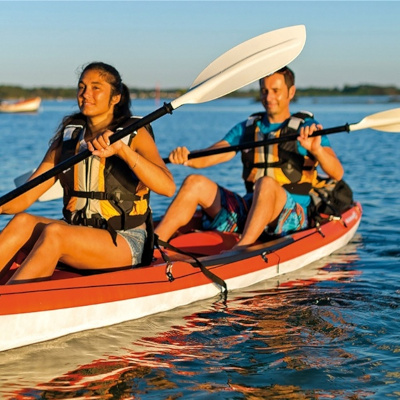
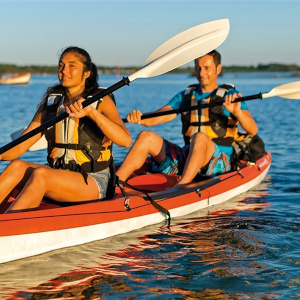
update size of activities pic

diff --git a/Main.css b/Main.css
@@ -40,3 +40,75 @@
     top: 30%;
 
 }
+
+
+.single-works {
+    margin-bottom: 30px;
+    position: relative;
+    transition: all 0.3s  ease 0s;
+    box-shadow: 5px 5px 15px #000;
+    
+}
+.single-works img{
+    width: 100%;
+    height: 100%;
+
+}
+.title {
+    font-size: 35px;
+    font-weight: 400;
+    margin: 0 5px 0;
+
+}
+
+.single-works .overlay-text {
+    width:100%  ;
+    height: 100%;
+    background-color: rbga(0,0,0,0.6); 
+    text-align: center;
+    padding-top: 50%;
+    opacity: 0;
+    position: absolute;
+    top: 0;
+    left: 0;
+    transition: all 0.6s ease 0s;
+}
+
+.single-works .overlay-text:before {
+    border-left: 1px solid rgba(255,255,255,0.9);
+    border-right: 1px solid rgba(255,255,255,0.9);
+    left: 30px;
+    right: 30px;
+}
+
+.single-works .overlay-text:after {
+    border-top: 1px solid rgba(255,255,255,0.9);
+    border-bottom: 1px solid rgba(255,255,255,0.9);
+    top: 60px;
+    bottom: 30px;
+}
+
+/*.single-works .overlay-text:before, .single-works .overlay-text:after {
+    content: "";
+    position: absolute;
+    top: 60px;
+    left: 60px;
+    bottom: 60px;
+    right: 60px;
+    opacity: 0;
+    z-index: 1;
+    transform: scale (1.5);
+    transition: all 0.6s ease 0.2s; 
+
+}*/
+
+
+
+.single-works:hover {
+    transform: translateY(-8px)
+
+}
+
+.single-works:hover .overlay-text {
+    opacity: 1;
+}

diff --git a/colorado.html b/colorado.html
@@ -68,7 +68,33 @@ crossorigin="anonymous"></script>
             </div>
         </div>
     </div>
-    
+    <div class="area">
+        <div class="container">
+            <div class="row">
+                <div class="section-header text-center">
+                    <h2 style="text-align: center">Các hoạt động vui chơi</h2>
+                </div>
+            </div>
+            <div class="row">
+                <div class="col-lg-6 col-md-12">
+                    <div class="single-works">
+                        <img src="img/winter2.jpg" alt="động băng">
+                        <div class="overlay-text">
+                            <h3 class="title"><a style="color:white" href="#">Hoạt động giải trí trong mùa đông</a></h3>
+                        </div>
+                    </div>
+                </div>
+                <div class="col-lg-6 col-md-12">
+                    <div class="single-works">
+                        <img src="img/kayaking.jpg" alt="kayakingkayaking">
+                        <div class="overlay-text">
+                            <h3 class="title"><a style="color:white" href="#">Hoạt động giải trí với nước</a></h3>
+                        </div>
+                    </div>
+                </div>
+            </div>
+        </div>
+    </div>
 </div>
     
 
